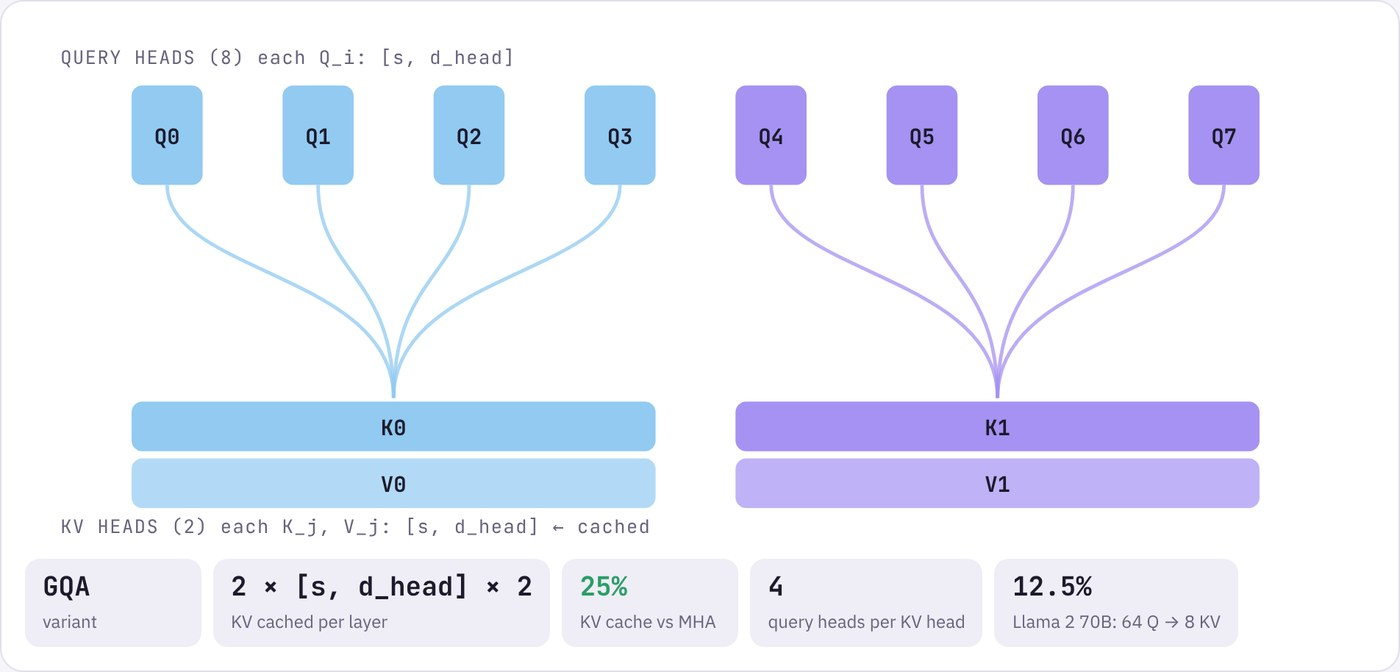
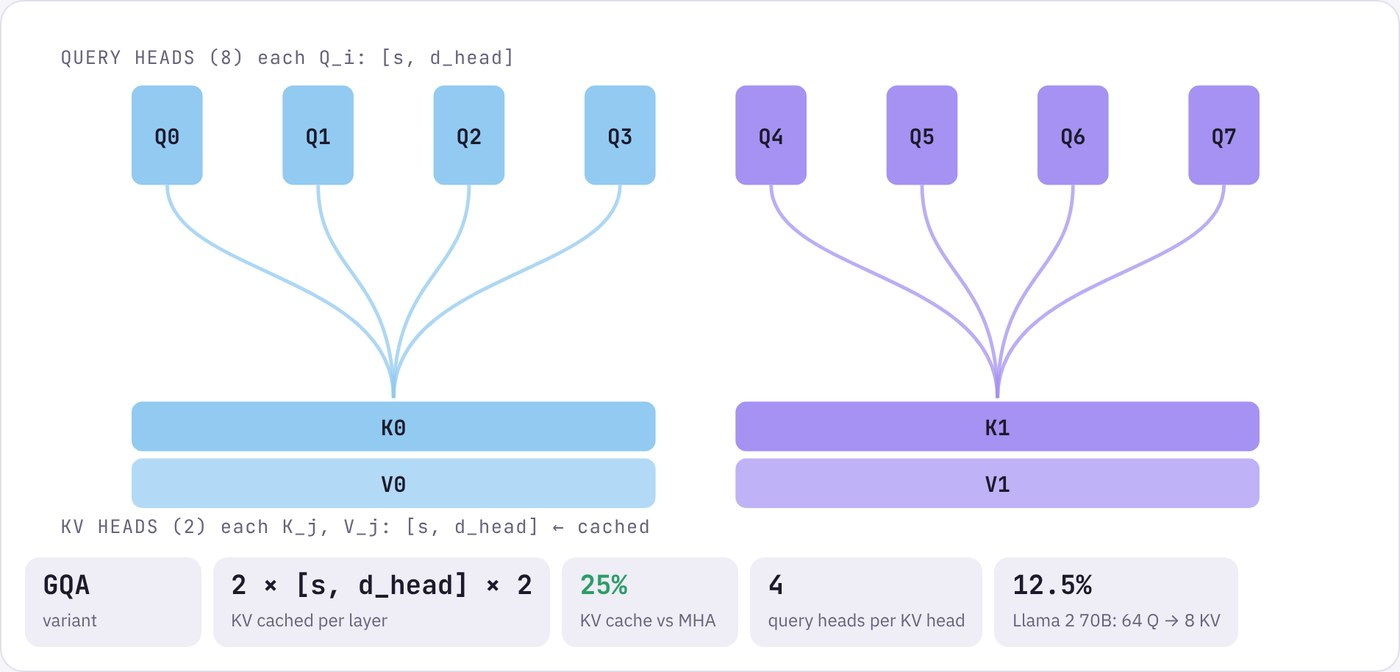
chore(posts): refresh figures after page step renumbering (#23)
Claude-Session: https://claude.ai/code/session_01UFQWSUsJMaVbTV8uBDUF1U

diff --git a/posts/2026-11-14-how-llm-inference-works-visual-guide/index.html b/posts/2026-11-14-how-llm-inference-works-visual-guide/index.html
@@ -7,7 +7,7 @@
   <meta name="description" content="What a transformer computes at each step, and how serving systems make it fast: batching, KV cache, parallelism, attention variants and more, each shown as a visual of tensor shapes.">
   <meta property="og:title" content="How LLM Inference Works: A Visual Guide to the Core Concepts">
   <meta property="og:description" content="What a transformer computes at each step, and how serving systems make it fast: batching, KV cache, parallelism, attention variants and more, each shown as a visual of tensor shapes.">
-  <meta property="og:image" content="https://raw.githubusercontent.com/ylnhari/blog/main/posts/2026-11-14-how-llm-inference-works-visual-guide/images/01-architecture.jpg?v=3">
+  <meta property="og:image" content="https://raw.githubusercontent.com/ylnhari/blog/main/posts/2026-11-14-how-llm-inference-works-visual-guide/images/01-architecture.jpg?v=4">
   <title>How LLM Inference Works: A Visual Guide to the Core Concepts</title>
   <link rel="stylesheet" href="../../assets/style.css">
 </head>
@@ -42,7 +42,7 @@
 
 <p>A language model has exactly one job: <strong>given the text so far, predict the next token</strong>. A token is a word or a piece of a word. Everything else is machinery for that single prediction. Here is the machinery, in the shape almost every modern model uses (GPT, Llama, Claude, Gemini, Mistral). Data flows from the bottom to the top:</p>
 
-<img src="https://raw.githubusercontent.com/ylnhari/blog/main/posts/2026-11-14-how-llm-inference-works-visual-guide/images/01-architecture.jpg?v=3" alt="The decoder-only transformer, bottom to top: the tokenizer turns text into IDs, the embedding turns IDs into vectors, then a block of norm, attention, add, norm, MLP, add repeats L times, and finally an LM head and softmax pick the next token, which is appended to the input for the next round.">
+<img src="https://raw.githubusercontent.com/ylnhari/blog/main/posts/2026-11-14-how-llm-inference-works-visual-guide/images/01-architecture.jpg?v=4" alt="The decoder-only transformer, bottom to top: the tokenizer turns text into IDs, the embedding turns IDs into vectors, then a block of norm, attention, add, norm, MLP, add repeats L times, and finally an LM head and softmax pick the next token, which is appended to the input for the next round.">
 
 <p>In plain words:</p>
 
@@ -67,7 +67,7 @@
 
 <p>The query of "it" is compared with the key of every earlier word. A step called <strong>softmax</strong> turns those match scores into shares that add up to 100%. The best matches get the biggest share, and the new vector for "it" becomes a weighted mix of their values:</p>
 
-<img src="https://raw.githubusercontent.com/ylnhari/blog/main/posts/2026-11-14-how-llm-inference-works-visual-guide/images/02-attention.jpg?v=3" alt="Attention for the query "it": arcs show most of the weight, 65%, going to "animal", so the new vector for "it" is mostly the meaning of "animal". Below, the three steps: raw scores, softmax weights, and the mixed output.">
+<img src="https://raw.githubusercontent.com/ylnhari/blog/main/posts/2026-11-14-how-llm-inference-works-visual-guide/images/02-attention.jpg?v=4" alt="Attention for the query "it": arcs show most of the weight, 65%, going to "animal", so the new vector for "it" is mostly the meaning of "animal". Below, the three steps: raw scores, softmax weights, and the mixed output.">
 
 <p>A model runs many of these lookups side by side, called <strong>heads</strong>. Each head has its own query, key and value weights, so each learns to look for something different: one might link pronouns to nouns, another might focus on the previous word. Words in the future are hidden, because a model that predicts the next word cannot be allowed to peek at it.</p>
 
@@ -75,7 +75,7 @@
 
 <p>Once text is inside the model, everything is a block of numbers with a <strong>shape</strong>. Here is the query block from attention, drawn in 3D and cut into one slice per head:</p>
 
-<img src="https://raw.githubusercontent.com/ylnhari/blog/main/posts/2026-11-14-how-llm-inference-works-visual-guide/images/03-tensor-shapes.jpg?v=3" alt="The query tensor [b, s, h] drawn as a 3D block and cut along h into four colour-coded heads, each one head wide, with the shape glossary below.">
+<img src="https://raw.githubusercontent.com/ylnhari/blog/main/posts/2026-11-14-how-llm-inference-works-visual-guide/images/03-tensor-shapes.jpg?v=4" alt="The query tensor [b, s, h] drawn as a 3D block and cut along h into four colour-coded heads, each one head wide, with the shape glossary below.">
 
 <p>Nearly every paper about LLM systems writes the main block as <code>[b, s, h]</code>:</p>
 
@@ -91,15 +91,15 @@
 
 <p>Running a model happens in two very different phases. First, the whole prompt goes through at once. This phase is called <strong>prefill</strong>. All the prompt tokens form one big matrix, and the GPU's arithmetic units are kept busy:</p>
 
-<img src="https://raw.githubusercontent.com/ylnhari/blog/main/posts/2026-11-14-how-llm-inference-works-visual-guide/images/04-prefill.jpg?v=3" alt="Prefill: five prompt tokens form a 5-row matrix X that is multiplied by the weights W in one pass, and their keys and values fill the KV cache. The compute bar is nearly full.">
+<img src="https://raw.githubusercontent.com/ylnhari/blog/main/posts/2026-11-14-how-llm-inference-works-visual-guide/images/04-prefill.jpg?v=4" alt="Prefill: five prompt tokens form a 5-row matrix X that is multiplied by the weights W in one pass, and their keys and values fill the KV cache. The compute bar is nearly full.">
 
 <p>Then the reply is written one token at a time. This phase is called <strong>decode</strong>. Each step multiplies a single row by the <em>same</em> full set of weights, which must be read from GPU memory again every step. The arithmetic is tiny, but the reading is huge, so the GPU spends most of its time waiting on memory:</p>
 
-<img src="https://raw.githubusercontent.com/ylnhari/blog/main/posts/2026-11-14-how-llm-inference-works-visual-guide/images/05-decode.jpg?v=3" alt="Decode: a single new token is a 1-row matrix multiplied by the full weight matrix. Only one KV entry is added, and the compute bar is nearly empty: the step is limited by memory, not maths.">
+<img src="https://raw.githubusercontent.com/ylnhari/blog/main/posts/2026-11-14-how-llm-inference-works-visual-guide/images/05-decode.jpg?v=4" alt="Decode: a single new token is a 1-row matrix multiplied by the full weight matrix. Only one KV entry is added, and the compute bar is nearly empty: the step is limited by memory, not maths.">
 
 <p>To avoid recomputing the past at every step, the model saves each token's keys and values in a <strong>KV cache</strong>. The cache grows with every token and every conversation. A 7-billion-parameter model in 16-bit precision needs <a href="https://developer.nvidia.com/blog/mastering-llm-techniques-inference-optimization/">about 14 GB</a> just for its weights, and one 4,096-token conversation adds <a href="https://developer.nvidia.com/blog/mastering-llm-techniques-inference-optimization/">about 2 GB</a> of cache. Multiply that by dozens of users and memory runs out long before arithmetic does:</p>
 
-<img src="https://raw.githubusercontent.com/ylnhari/blog/main/posts/2026-11-14-how-llm-inference-works-visual-guide/images/06-kv-cache.jpg?v=3" alt="KV cache calculator for Llama 2 7B at batch 1 and 4,096 tokens: 14 GB of weights plus 2.15 GB of KV cache on an 80 GB GPU, with the formula filled in.">
+<img src="https://raw.githubusercontent.com/ylnhari/blog/main/posts/2026-11-14-how-llm-inference-works-visual-guide/images/06-kv-cache.jpg?v=4" alt="KV cache calculator for Llama 2 7B at batch 1 and 4,096 tokens: 14 GB of weights plus 2.15 GB of KV cache on an 80 GB GPU, with the formula filled in.">
 
 <blockquote>During decode, the GPU is not busy doing maths. It is busy fetching numbers from memory.</blockquote>
 
@@ -109,11 +109,11 @@
 
 <p>If decode spends its time reading the weights, the obvious fix is to make each read count for more. Put several conversations in one <strong>batch</strong>, and every read of the weights serves all of them at once. The catch is that replies finish at different times. In <strong>static batching</strong>, the whole batch waits for its longest reply, and finished slots sit empty. In <strong>in-flight batching</strong> (also called continuous batching), a finished conversation leaves straight away and a waiting one takes its slot on the next step:</p>
 
-<img src="https://raw.githubusercontent.com/ylnhari/blog/main/posts/2026-11-14-how-llm-inference-works-visual-guide/images/07-batching.jpg?v=3" alt="Two timelines of four batch slots. Static batching takes 31 steps with slots idle 40% of the time while waiting for the longest request; in-flight batching refills each slot as soon as it frees up and finishes the same twelve requests in 23 steps.">
+<img src="https://raw.githubusercontent.com/ylnhari/blog/main/posts/2026-11-14-how-llm-inference-works-visual-guide/images/07-batching.jpg?v=4" alt="Two timelines of four batch slots. Static batching takes 31 steps with slots idle 40% of the time while waiting for the longest request; in-flight batching refills each slot as soon as it frees up and finishes the same twelve requests in 23 steps.">
 
 <p>Batching only helps if there is room in memory for many KV caches. Older servers reserved one long, unbroken stretch of memory per conversation, sized for the longest reply it <em>might</em> write. NVIDIA's example: a model with a 2,048-token limit <a href="https://developer.nvidia.com/blog/mastering-llm-techniques-inference-optimization/">reserves room for all 2,048 tokens</a> even when the reply is short, and the unused part is wasted. <strong>PagedAttention</strong> borrows an idea from operating systems. It cuts the cache into small fixed-size blocks, hands them out only as tokens arrive, and keeps a table of which block lives where, so a conversation's blocks need not sit next to each other:</p>
 
-<img src="https://raw.githubusercontent.com/ylnhari/blog/main/posts/2026-11-14-how-llm-inference-works-visual-guide/images/08-paged-attention.jpg?v=3" alt="KV memory drawn as 32 physical blocks of 8 token slots, shared by eight requests whose blocks are scattered across memory. A block table maps each request's logical blocks to physical ones; 89% of memory now holds real tokens.">
+<img src="https://raw.githubusercontent.com/ylnhari/blog/main/posts/2026-11-14-how-llm-inference-works-visual-guide/images/08-paged-attention.jpg?v=4" alt="KV memory drawn as 32 physical blocks of 8 token slots, shared by eight requests whose blocks are scattered across memory. A block table maps each request's logical blocks to physical ones; 89% of memory now holds real tokens.">
 
 <p>Less waste per conversation means more conversations fit, which means bigger batches, which means each read of the weights does more work. Serving engines such as vLLM and TensorRT-LLM use both ideas.</p>
 
@@ -121,13 +121,13 @@
 
 <p>The KV cache holds a key and a value for every head. But the heads do not each need their own. In <strong>grouped-query attention</strong> (GQA), several query heads share one key head and one value head, so the cache shrinks by the size of the group. <strong>Multi-query attention</strong> (MQA) is the extreme case, where every query head shares a single key and value head. Llama 2 70B is <a href="https://developer.nvidia.com/blog/mastering-llm-techniques-inference-optimization/">one well-known model that uses GQA</a>:</p>
 
-<img src="https://raw.githubusercontent.com/ylnhari/blog/main/posts/2026-11-14-how-llm-inference-works-visual-guide/images/09-gqa.jpg?v=3" alt="Eight query heads, Q0 to Q7, wired to only two key/value heads: Q0 to Q3 share K0 and V0, Q4 to Q7 share K1 and V1. The KV cache is 25% of what standard multi-head attention would need.">
+<img src="https://raw.githubusercontent.com/ylnhari/blog/main/posts/2026-11-14-how-llm-inference-works-visual-guide/images/09-gqa.jpg?v=4" alt="Eight query heads, Q0 to Q7, wired to only two key/value heads: Q0 to Q3 share K0 and V0, Q4 to Q7 share K1 and V1. The KV cache is 25% of what standard multi-head attention would need.">
 
 <p>Sharing heads costs a little quality, and an existing model can be converted rather than retrained: NVIDIA notes that turning a model into MQA needs fine-tuning on <a href="https://developer.nvidia.com/blog/mastering-llm-techniques-inference-optimization/">about 5% of the original training volume</a>.</p>
 
 <p>The second cost in attention is less obvious. Standard attention builds the full table of scores, one for every pair of tokens, and writes that table to the GPU's large but slow main memory (HBM) and reads it back. For long inputs that table is enormous. <strong>FlashAttention</strong> never builds it. It works on one small tile at a time inside the GPU's tiny but very fast on-chip memory (SRAM), keeping a running total so the softmax still comes out exactly right:</p>
 
-<img src="https://raw.githubusercontent.com/ylnhari/blog/main/posts/2026-11-14-how-llm-inference-works-visual-guide/images/10-flash-attention.jpg?v=3" alt="FlashAttention: Q, K and V stay in HBM, but the N by N score matrix is never stored. Only one tile exists at a time, in SRAM, while a running maximum and sum accumulate the output. Score traffic through HBM drops to zero, with the same O(N squared) compute and an exact result.">
+<img src="https://raw.githubusercontent.com/ylnhari/blog/main/posts/2026-11-14-how-llm-inference-works-visual-guide/images/10-flash-attention.jpg?v=4" alt="FlashAttention: Q, K and V stay in HBM, but the N by N score matrix is never stored. Only one tile exists at a time, in SRAM, while a running maximum and sum accumulate the output. Score traffic through HBM drops to zero, with the same O(N squared) compute and an exact result.">
 
 <p>The maths is the same, and so is the answer. What changes is how many times data crosses the slow path to main memory. That is the theme of this whole guide again.</p>
 
@@ -137,23 +137,23 @@
 
 <p><strong>Quantization</strong> stores each number with fewer bits. Models are usually trained with 16 or 32 bits per value, but most can be represented <a href="https://developer.nvidia.com/blog/mastering-llm-techniques-inference-optimization/">with eight or even fewer</a>. Each weight snaps to the nearest of a small set of levels:</p>
 
-<img src="https://raw.githubusercontent.com/ylnhari/blog/main/posts/2026-11-14-how-llm-inference-works-visual-guide/images/11-quantization.jpg?v=3" alt="Weights from a bell-shaped distribution, top, each snapped down to one of 15 evenly spaced INT4 levels, bottom. The mean error is 0.118, and a 7B model's weights fall to 3.5 GB.">
+<img src="https://raw.githubusercontent.com/ylnhari/blog/main/posts/2026-11-14-how-llm-inference-works-visual-guide/images/11-quantization.jpg?v=4" alt="Weights from a bell-shaped distribution, top, each snapped down to one of 15 evenly spaced INT4 levels, bottom. The mean error is 0.118, and a 7B model's weights fall to 3.5 GB.">
 
 <p>Weights are the easy part, because they are fixed after training. The values flowing through the model are harder, because they contain occasional very large <strong>outliers</strong>. One outlier stretches the scale, and every other value loses precision. Much of the research in this area is about handling those outliers.</p>
 
 <p><strong>Sparsity</strong> sets some weights to zero. Random zeros barely help, because the GPU still has to check every position. But recent NVIDIA GPUs have hardware for one fixed pattern: <a href="https://developer.nvidia.com/blog/mastering-llm-techniques-inference-optimization/">two zeros in every group of four</a>. The zeros are dropped from storage, a small index records where the survivors were, and the hardware skips the missing work:</p>
 
-<img src="https://raw.githubusercontent.com/ylnhari/blog/main/posts/2026-11-14-how-llm-inference-works-visual-guide/images/12-sparsity.jpg?v=3" alt="A 4 by 16 weight matrix pruned 2:4: in every group of four values, the two smallest are set to zero, shown hatched. 32 non-zero values are stored with a small metadata index.">
+<img src="https://raw.githubusercontent.com/ylnhari/blog/main/posts/2026-11-14-how-llm-inference-works-visual-guide/images/12-sparsity.jpg?v=4" alt="A 4 by 16 weight matrix pruned 2:4: in every group of four values, the two smallest are set to zero, shown hatched. 32 non-zero values are stored with a small metadata index.">
 
 <p><strong>Distillation</strong> trains a smaller <em>student</em> model to copy a larger <em>teacher</em>. The trick is to learn from the teacher's whole spread of guesses rather than only the right answer. "Mat" is correct, but "rug" being a close second carries information too. The classic result is DistilBERT, which <a href="https://developer.nvidia.com/blog/mastering-llm-techniques-inference-optimization/">compresses BERT by 40% while keeping 97% of its language understanding, and runs 60% faster</a>:</p>
 
-<img src="https://raw.githubusercontent.com/ylnhari/blog/main/posts/2026-11-14-how-llm-inference-works-visual-guide/images/13-distillation.jpg?v=3" alt="Next-word probabilities for 'The cat sat on the ___'. The hard label puts everything on 'mat'; the teacher's soft target gives mat 66%, rug 16%, floor 11%, sofa 6%. The student is trained on a mix of both.">
+<img src="https://raw.githubusercontent.com/ylnhari/blog/main/posts/2026-11-14-how-llm-inference-works-visual-guide/images/13-distillation.jpg?v=4" alt="Next-word probabilities for 'The cat sat on the ___'. The hard label puts everything on 'mat'; the teacher's soft target gives mat 66%, rug 16%, floor 11%, sofa 6%. The student is trained on a mix of both.">
 
 <h2>7. Guessing ahead</h2>
 
 <p>Decode is slow because each token waits for the one before it. <strong>Speculative decoding</strong> gets around that. A small, fast <em>draft</em> model guesses the next few tokens. The big model then checks all the guesses in a single pass, which costs about the same as producing one token, because the weights are read once either way. It keeps the guesses up to the first wrong one, and adds its own token at that point:</p>
 
-<img src="https://raw.githubusercontent.com/ylnhari/blog/main/posts/2026-11-14-how-llm-inference-works-visual-guide/images/14-speculative-decoding.jpg?v=3" alt="After the prompt 'I saw a dog ride', the draft model guesses 'in the bus'. The verifier agrees with 'in the' and replaces 'bus' with 'car', so one pass of the big model produces three tokens.">
+<img src="https://raw.githubusercontent.com/ylnhari/blog/main/posts/2026-11-14-how-llm-inference-works-visual-guide/images/14-speculative-decoding.jpg?v=4" alt="After the prompt 'I saw a dog ride', the draft model guesses 'in the bus'. The verifier agrees with 'in the' and replaces 'bus' with 'car', so one pass of the big model produces three tokens.">
 
 <p>The output is exactly what the big model would have written on its own. When the draft guesses well, several tokens come out of each pass of the big model. When it guesses badly, you lose a little time on the draft and nothing else.</p>
 
@@ -163,35 +163,35 @@
 
 <p>At two bytes per number, a 70-billion-parameter model is 140 GB of weights, already more than a common 80 GB data-centre GPU holds, before any KV cache. So big models are split across several GPUs. There are a few ways to make the split, and each answers the same question: <strong>which dimension of which block gets cut, and what has to travel between GPUs as a result?</strong></p>
 
-<img src="https://raw.githubusercontent.com/ylnhari/blog/main/posts/2026-11-14-how-llm-inference-works-visual-guide/images/15-gpus-needed.jpg?v=3" alt="Each box is one 80 GB GPU filled with weights only: 7B and 13B models fit on one, a 70B model needs at least two, and a 405B model needs at least eleven.">
+<img src="https://raw.githubusercontent.com/ylnhari/blog/main/posts/2026-11-14-how-llm-inference-works-visual-guide/images/15-gpus-needed.jpg?v=4" alt="Each box is one 80 GB GPU filled with weights only: 7B and 13B models fit on one, a 70B model needs at least two, and a 405B model needs at least eleven.">
 
 <p>The simplest is <strong>data parallelism</strong>: copy the whole model onto every GPU and send different conversations to each. It multiplies throughput and needs no communication, but it only works if the model fits on one GPU in the first place:</p>
 
-<img src="https://raw.githubusercontent.com/ylnhari/blog/main/posts/2026-11-14-how-llm-inference-works-visual-guide/images/16-data-parallel.jpg?v=3" alt="Data parallelism: four GPUs each hold a full 14 GB copy of a 7B model and serve different requests, with no traffic between them.">
+<img src="https://raw.githubusercontent.com/ylnhari/blog/main/posts/2026-11-14-how-llm-inference-works-visual-guide/images/16-data-parallel.jpg?v=4" alt="Data parallelism: four GPUs each hold a full 14 GB copy of a 7B model and serve different requests, with no traffic between them.">
 
 <p><strong>Pipeline parallelism</strong> gives each GPU a slice of the layers, like an assembly line. With four stages, each GPU holds <a href="https://developer.nvidia.com/blog/mastering-llm-techniques-inference-optimization/">a quarter of the weights</a>. The problem is waiting: GPU 3 has nothing to do until GPU 0 has finished. Splitting the batch into smaller <strong>microbatches</strong> keeps more stages busy at once, but the idle "bubble" at the start and end never fully goes away:</p>
 
-<img src="https://raw.githubusercontent.com/ylnhari/blog/main/posts/2026-11-14-how-llm-inference-works-visual-guide/images/17-pipeline-parallel.jpg?v=3" alt="Pipeline parallelism: 32 layers split into four stages on four GPUs. With the batch split into four microbatches, each GPU starts one step after the one before it; hatched areas show idle time, 43% of the total.">
+<img src="https://raw.githubusercontent.com/ylnhari/blog/main/posts/2026-11-14-how-llm-inference-works-visual-guide/images/17-pipeline-parallel.jpg?v=4" alt="Pipeline parallelism: 32 layers split into four stages on four GPUs. With the batch split into four microbatches, each GPU starts one step after the one before it; hatched areas show idle time, 43% of the total.">
 
 <p>Pipelining helps a model fit and adds throughput once the pipeline is full. It never makes a single request faster.</p>
 
 <p><strong>Tensor parallelism</strong> splits the weight matrices <em>inside</em> every layer, so all GPUs work on every token together. It rests on one neat trick. Split the MLP's first weight matrix by columns and the second by rows. Each GPU can then do both multiplications on its own half, with no talking in between, and one combining step at the end (an <strong>All-Reduce</strong>) adds the halves up:</p>
 
-<img src="https://raw.githubusercontent.com/ylnhari/blog/main/posts/2026-11-14-how-llm-inference-works-visual-guide/images/18-tp-matmul-trick.jpg?v=3" alt="Tensor parallelism in the MLP: A is split by columns and B by rows, so each GPU computes its own half and a partial sum, and one All-Reduce combines them. There is no communication between the two matrix multiplies.">
+<img src="https://raw.githubusercontent.com/ylnhari/blog/main/posts/2026-11-14-how-llm-inference-works-visual-guide/images/18-tp-matmul-trick.jpg?v=4" alt="Tensor parallelism in the MLP: A is split by columns and B by rows, so each GPU computes its own half and a partial sum, and one All-Reduce combines them. There is no communication between the two matrix multiplies.">
 
 <p>That combining step happens twice in every layer, so tensor parallelism needs the very fast links found <em>inside</em> one server. Real systems mix the methods: tensor parallelism inside a server, pipeline parallelism across servers, and data parallelism to add more copies for more users. Here is one such layout, sixteen GPUs in two servers:</p>
 
-<img src="https://raw.githubusercontent.com/ylnhari/blog/main/posts/2026-11-14-how-llm-inference-works-visual-guide/images/21-combined-parallelism.jpg?v=3" alt="Two servers of eight GPUs. Inside each server, eight GPUs form one tensor-parallel group sharing the fast NVLink connection; the two servers are independent copies, so data parallelism of 2 doubles throughput.">
+<img src="https://raw.githubusercontent.com/ylnhari/blog/main/posts/2026-11-14-how-llm-inference-works-visual-guide/images/21-combined-parallelism.jpg?v=4" alt="Two servers of eight GPUs. Inside each server, eight GPUs form one tensor-parallel group sharing the fast NVLink connection; the two servers are independent copies, so data parallelism of 2 doubles throughput.">
 
 <h2>9. The copies tensor parallelism leaves behind</h2>
 
 <p>Tensor parallelism has a blind spot. Between the split blocks, every GPU holds the <em>same</em> full block of <strong>activations</strong> (the in-between numbers that flow from one layer to the next) and runs the same normalisation step on it. The same data, stored twice:</p>
 
-<img src="https://raw.githubusercontent.com/ylnhari/blog/main/posts/2026-11-14-how-llm-inference-works-visual-guide/images/19-tp-copies.jpg?v=3" alt="Under tensor parallelism, LayerNorm runs on an identical full [b, s, h] block on both GPUs: activations at 100% on each, marked as duplicates.">
+<img src="https://raw.githubusercontent.com/ylnhari/blog/main/posts/2026-11-14-how-llm-inference-works-visual-guide/images/19-tp-copies.jpg?v=4" alt="Under tensor parallelism, LayerNorm runs on an identical full [b, s, h] block on both GPUs: activations at 100% on each, marked as duplicates.">
 
 <p>Normalisation treats each token on its own, so the fix is to cut that block along the <strong>sequence</strong> instead: each GPU handles half the tokens. This is called <strong>sequence parallelism</strong>, and it removes the copies without adding any communication:</p>
 
-<img src="https://raw.githubusercontent.com/ylnhari/blog/main/posts/2026-11-14-how-llm-inference-works-visual-guide/images/20-sequence-split.jpg?v=3" alt="Sequence parallelism: the same block cut along s, so GPU 0 holds tokens 0 to 3 and GPU 1 holds tokens 4 to 7, each at 50% of the activation memory with no copies.">
+<img src="https://raw.githubusercontent.com/ylnhari/blog/main/posts/2026-11-14-how-llm-inference-works-visual-guide/images/20-sequence-split.jpg?v=4" alt="Sequence parallelism: the same block cut along s, so GPU 0 holds tokens 0 to 3 and GPU 1 holds tokens 4 to 7, each at 50% of the activation memory with no copies.">
 
 <p>The research that introduced this pairing reports that, together with smarter recomputation, it <a href="https://arxiv.org/abs/2205.05198">cuts activation memory by 5×</a>.</p>
 
@@ -199,7 +199,7 @@
 
 <p>One more trick changes the model itself. In a <strong>mixture-of-experts</strong> (MoE) model, the single MLP in each block is replaced by several smaller MLPs, called <em>experts</em>, plus a tiny <strong>router</strong> that picks a few experts for each token. Every other expert sits idle for that token:</p>
 
-<img src="https://raw.githubusercontent.com/ylnhari/blog/main/posts/2026-11-14-how-llm-inference-works-visual-guide/images/23-mixture-of-experts.jpg?v=3" alt="A mixture-of-experts layer: the router sends the token 'The' to two of eight experts, expert 0 with weight 0.49 and expert 4 with weight 0.51, while the other six stay idle. The output is the weighted sum of the two chosen experts, and the shape stays [b, s, h].">
+<img src="https://raw.githubusercontent.com/ylnhari/blog/main/posts/2026-11-14-how-llm-inference-works-visual-guide/images/23-mixture-of-experts.jpg?v=4" alt="A mixture-of-experts layer: the router sends the token 'The' to two of eight experts, expert 0 with weight 0.49 and expert 4 with weight 0.51, while the other six stay idle. The output is the weighted sum of the two chosen experts, and the shape stays [b, s, h].">
 
 <p>Mixtral 8×7B is the well-known example: it has <a href="https://mistral.ai/news/mixtral-of-experts">eight experts per block and uses two of them for each token</a>, so it <a href="https://mistral.ai/news/mixtral-of-experts">stores 46.7B parameters but uses only 12.9B per token</a>. That split matters for serving. The memory you need follows the total, because every expert has to be loaded. The work per token follows the active part, so a token costs about what a much smaller model would. When the experts no longer fit on one GPU, they are spread across several. That is <strong>expert parallelism</strong>, the fifth way to split a model, and it needs its own communication step to send each token to the GPU that holds its experts.</p>
 
@@ -207,7 +207,7 @@
 
 <p>All of that stored activation memory is mostly a <em>training</em> problem. To learn, a model runs backwards through every layer, and each step backwards needs the numbers that went into that layer on the way forward. Training also stores gradients and optimiser state for every weight. Running a model forward only needs the weights and the KV cache:</p>
 
-<img src="https://raw.githubusercontent.com/ylnhari/blog/main/posts/2026-11-14-how-llm-inference-works-visual-guide/images/22-training-memory.jpg?v=3" alt="Estimated memory for a 7B model at 4,096 tokens: about 16 GB to serve (weights plus KV cache) against about 216 GB to train (weights, gradients, optimiser state and stored activations).">
+<img src="https://raw.githubusercontent.com/ylnhari/blog/main/posts/2026-11-14-how-llm-inference-works-visual-guide/images/22-training-memory.jpg?v=4" alt="Estimated memory for a 7B model at 4,096 tokens: about 16 GB to serve (weights plus KV cache) against about 216 GB to train (weights, gradients, optimiser state and stored activations).">
 
 <p>The training bar is an estimate. It assumes the usual 16 bytes per weight for training with the Adam optimiser in mixed precision, plus the per-layer activation formula from <a href="https://arxiv.org/abs/2205.05198">the same sequence-parallelism paper</a>. The interactive page lets you switch on recomputation and watch the activation bar collapse.</p>
 
